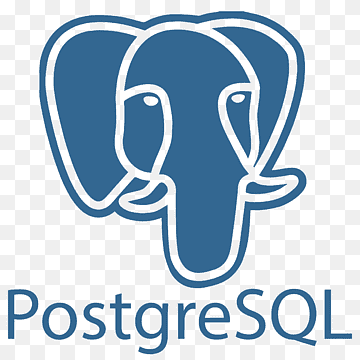
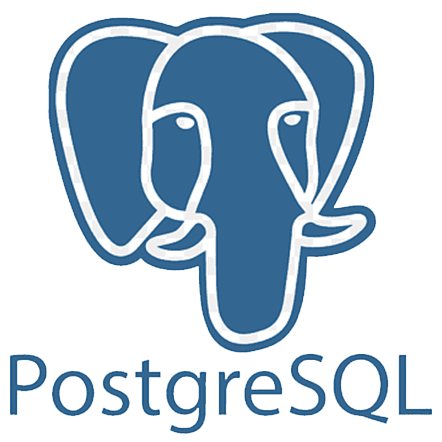
Habilidades faltan estilos

diff --git a/index.html b/index.html
@@ -74,16 +74,51 @@
 	</section>
 	
 	<!-- Habilidades -->
-	<section class="section" id="about">
+	<section class="section" id="skills">
 		<div class="title">
 			<h2>Habilidades</h2>
 			<h4>Tecnicas</h4>
 		</div>
 
 		<ul>
+			<!-- Javascript -->
 			<li>
-				<img src="./img/JavaScript.jpg" alt="Javasccript">
-				<b>Javasccript</b>
+				<img src="./img/Javascript.png" alt="Javasccript">
+			</li>
+			
+			<!-- HTML -->
+			<li>
+				<img src="./img/HTML.png" alt="HTML">
+			</li>
+			
+			<!-- CSS -->
+			<li>
+				<img src="./img/CSS.PNG" alt="CSS">
+			</li>
+			
+			<!-- React -->
+			<li>
+				<img src="./img/React.png" alt="React">
+			</li>
+			
+			<!-- Node -->
+			<li>
+				<img src="./img/Node.png" alt="Node">
+			</li>
+			
+			<!-- PostgreSQL -->
+			<li>
+				<img src="./img/PostgreSQL.png" alt="PostgreSQL">
+			</li>
+			
+			<!-- Typescript -->
+			<li>
+				<img src="./img/Typescript.png" alt="Typescript">
+			</li>
+			
+			<!-- C -->
+			<li>
+				<img src="./img/C.png" alt="C">
 			</li>
 		</ul>
 	</section>
